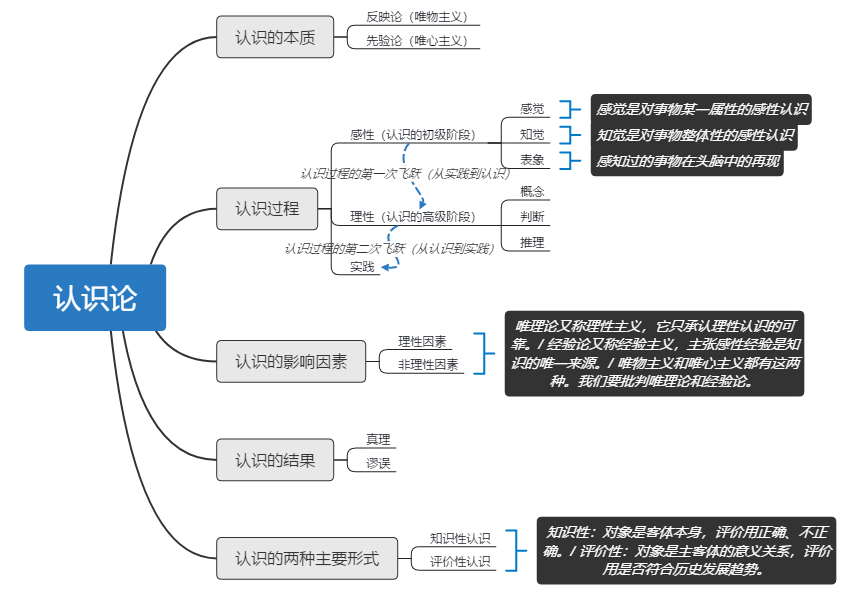
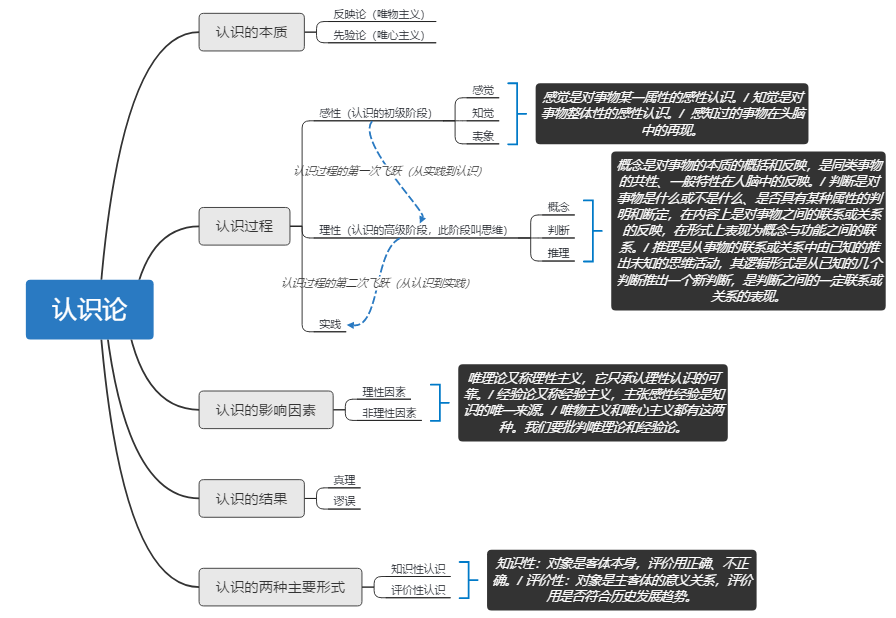
v20181216

Changed region(s): [[0.0304, 0.0, 1.0, 0.9966], [0.3345, 0.5134, 0.3953, 0.5436]]

diff --git a/hexo_blog_backup/source/_posts/哲学与科学相关笔记.md b/hexo_blog_backup/source/_posts/哲学与科学相关笔记.md
@@ -3,7 +3,7 @@ title: 哲学与科学相关笔记
 date: 2018-12-08 15:07:05
 tags: 学习笔记
 ---
-> 此笔记内容是根据多本哲学相关的书、公开课整理出来的。
+> 此笔记内容是根据读过的多本哲学相关的书、公开课整理出来的。
 
 # 一 科学
 ## 1 科学的概念（来自 Wikipedia）
@@ -38,19 +38,26 @@ tags: 学习笔记
 - 哲学落实在人的意识里，落实在判断、选择里。
 
 2. 内容：
-- 存在：研究存在学问在哲学上称为“形而上学 metaphysics”，创建者是亚里士多德。“形而上学”今天的两层含义：以用超验的思辨方式研究非客观或者无形世界的哲学体系（简而言之，就是事物背后的本质）；与辩证法对立，马克思主义哲学中指片面、孤立、静止的观点看待事物。
+- 存在：
+研究存在学问在哲学上称为“形而上学 metaphysics”，创建者是亚里士多德。“形而上学”今天的两层含义：以用超验的思辨方式研究非客观或者无形世界的哲学体系（简而言之，就是事物背后的本质）；与辩证法对立，马克思主义哲学中指片面、孤立、静止的观点看待事物。
 
-- 知道：求知的基本动机是探求规律，预测未来，更好的生存。我们的生活由常识和知识所搭建。现代哲学由我们如何存在转为我们如何认识、知道。
+- 知道：
+求知的基本动机是探求规律，预测未来，更好的生存。我们的生活由常识和知识所搭建。现代哲学由我们如何存在转为我们如何认识、知道。
 
-- 意愿：由“知道”到行动的统一。注：意愿有理性和非理性，意志是非理性的。意愿是完全合乎主体属性的那个东西，由此引出责任，道德是对自我内心的认定是内部活动。古典德性论是绝对的道德，超越环境的；今天的道德是相对的道德，根据环境做出调整。道德的基础是自由，可以选择成为他自身。
+- 意愿：
+由“知道”到行动的统一。注：意愿有理性和非理性，意志是非理性的。意愿是完全合乎主体属性的那个东西，由此引出责任，道德是对自我内心的认定是内部活动。古典德性论是绝对的道德，超越环境的；今天的道德是相对的道德，根据环境做出调整。道德的基础是自由，可以选择成为他自身。
 
-- 共同体：共同体是在个体上的提升。其三个特点是共同的利益、一定的规范性、共同的目标。个人对共同体的要求是稳定有效制度的存在，个体的完善也是共同体的完善。个人主义两个重要方面，自我完善、角色意识。
+- 共同体：
+共同体是在个体上的提升。其三个特点是共同的利益、一定的规范性、共同的目标。个人对共同体的要求是稳定有效制度的存在，个体的完善也是共同体的完善。个人主义两个重要方面，自我完善、角色意识。
 
-- 论辩：辩论是一种技术、一种文化（非权力的压服下，说服他人接受自己的观点）。辩论的发展：修辞学 -> 助产术（辩证法）-> 逻辑学（形式逻辑，亚里士多德首创）-> 数理逻辑（分析哲学）-> 数学（把形式逻辑更加形式化）。
+- 论辩：
+辩论是一种技术、一种文化（非权力的压服下，说服他人接受自己的观点）。辩论的发展：修辞学 -> 助产术（辩证法）-> 逻辑学（形式逻辑，亚里士多德首创）-> 数理逻辑（分析哲学）-> 数学（把形式逻辑更加形式化）。
 
-- 审美：维特根斯坦认为，美是主观感受，并非对事物的客观属性的描述。它是一个感叹词，没有实际内容。所以说整个美的本质论就是一个假命题。/ 席勒认为，在审美活动中，当我们获得快乐时，可以保持自由，不用牺牲自己的自由，是不受限制的自由。过剩的精力施展的愉悦。
+- 审美：
+维特根斯坦认为，美是主观感受，并非对事物的客观属性的描述。它是一个感叹词，没有实际内容。所以说整个美的本质论就是一个假命题。/ 席勒认为，在审美活动中，当我们获得快乐时，可以保持自由，不用牺牲自己的自由，是不受限制的自由。过剩的精力施展的愉悦。
 
-- 哲学与未来：哲学更深入的批评技术，摆脱技术对人的控制（人的异化）。没有哲学、人文教育，我们会生活的非常机械，失去自己，失去丰富性。技术和消费侵蚀我们的未来。/古典向现代思想转化的一个状态，由一个灵魂的人，内在的人转化为一个心理的人，而心理只是一种神经活动，一种身体状态。
+- 哲学与未来：
+哲学更深入的批评技术，摆脱技术对人的控制（人的异化）。没有哲学、人文教育，我们会生活的非常机械，失去自己，失去丰富性。技术和消费侵蚀我们的未来。/古典向现代思想转化的一个状态，由一个灵魂的人，内在的人转化为一个心理的人，而心理只是一种神经活动，一种身体状态。
 
 ## 3 西方哲学发展概况
 - 古希腊罗马哲学（BC 6 世纪 - AD 4 世纪）
@@ -64,17 +71,23 @@ tags: 学习笔记
 
 
 ## 5 一些哲学常识
-- 根据物质和精神何者为第一性，哲学主要分为两个阵营：唯物主义，唯心主义（客观唯心主义、主观唯心主义）。
+- 根据物质和精神何者为第一性，哲学主要分为两个阵营：
+唯物主义，唯心主义（客观唯心主义、主观唯心主义）。
 
-- 唯物主义发展：古代朴素唯物主义、近代机械唯物主义、现代辨证唯物主义。
+- 唯物主义发展：
+古代朴素唯物主义、近代机械唯物主义、现代辨证唯物主义。
 
-- 认识的本质（反映论与先验论）：反映论主张从物到感觉和思想的认识路线。凡坚持物质第一性，意识第二性的唯物主义哲学家，都必然是反映论者。/ 先验论主张从思想和感觉到物的认识路线。认为人的知识是先于感觉经验、先于社会实践的东西，它是先天就有的。先验论是唯心主义认识论的一种表现形式。
+- 认识的本质（反映论与先验论）：
+反映论主张从物到感觉和思想的认识路线。凡坚持物质第一性，意识第二性的唯物主义哲学家，都必然是反映论者。/ 先验论主张从思想和感觉到物的认识路线。认为人的知识是先于感觉经验、先于社会实践的东西，它是先天就有的。先验论是唯心主义认识论的一种表现形式。
 
-- 认识的影响因素（唯理论与经验论）：唯物主义和唯心主义都有这两种。/ 唯理论又称理性主义，它只承认理性认识的可靠性，贬低感性认识的重要意义，否认理性认识依赖于感性经验。/ 经验论又称经验主义，主张感性经验是知识的唯一来源。/ 我们要批判唯理论和经验论。
+- 认识的影响因素（唯理论与经验论）：
+唯物主义和唯心主义都有这两种。/ 唯理论又称理性主义，它只承认理性认识的可靠性，贬低感性认识的重要意义，否认理性认识依赖于感性经验。/ 经验论又称经验主义，主张感性经验是知识的唯一来源。/ 我们要批判唯理论和经验论。
 
-- 认识论中认识过程的两个阶段（现代辩证唯物主义）：第一个阶段，从感性认识到理性认识；第二个阶段，从理性认识到实践。
+- 认识论中认识过程的两个阶段（现代辩证唯物主义）：
+第一个阶段，从感性认识到理性认识；第二个阶段，从理性认识到实践。
 
-- 认识论中认识过程的感性与理性：感性是认识的初级阶段，指通过我们被对象所刺激的方式来获得表象的这种能力。感性认识从潜到深三种形式为感觉（感觉是对事物某一属性的感性认识）、知觉（知觉是对事物整体性的感性认识）、表象（感知过的事物在头脑中的再现）。/ 理性是认识的高级阶段，它是认识的深化，是抽象思维，是对事物本质的、整体的和内部联系的概括和反映。认识从潜到深三种形式为概念、判断、推理。
+- 认识论中认识过程的感性与理性：
+感性是认识的初级阶段，指通过我们被对象所刺激的方式来获得表象的这种能力。感性认识从潜到深三种形式为感觉（感觉是对事物某一属性的感性认识）、知觉（知觉是对事物整体性的感性认识）、表象（感知过的事物在头脑中的再现）。/ 理性是认识的高级阶段，它是认识的深化，是抽象思维，是对事物本质的、整体的和内部联系的概括和反映。认识从潜到深三种形式为概念、判断、推理。
 
 - 认识论小结：
 ![认识过程小结](图2-1.PNG)

diff --git a/hexo_blog_backup/source/_posts/高中数学知识结构思维导图（转载）.md b/hexo_blog_backup/source/_posts/高中数学知识结构思维导图（转载）.md
@@ -1,0 +1,26 @@
+---
+title: 高中数学知识结构思维导图（转载）
+date: 2018-12-16 21:46:30
+tags: 学习笔记
+---
+# 一 高中数学知识结构思维导图
+## 1 集合、映射、函数、导数及微积分
+![集合、映射、函数、导数及微积分](图1.PNG)
+
+## 2 三角函数与平面向量
+![三角函数与平面向量](图2.PNG)
+
+## 3 数列与不等式
+![数列与不等式](图3.PNG)
+
+## 4 解析几何
+![解析几何](图4.PNG)
+
+## 5 立体几何
+![立体几何](图5.PNG)
+
+## 6 统计与概率
+![统计与概率](图6.PNG)
+
+## 7 其他部分内容
+![其他部分内容](图7.PNG)

diff --git a/hexo_blog_backup/source/_posts/考研数学（框架概要）核心知识点笔记.md b/hexo_blog_backup/source/_posts/考研数学（框架概要）核心知识点笔记.md
@@ -1,0 +1,12 @@
+---
+title: 考研数学（框架概要）核心知识点笔记
+date: 2018-12-16 18:55:23
+tags: 学习笔记
+---
+# 一 考研数学考点
+![考研数学（框架概要）](图1.PNG)
+
+# 二 考研数学二知识框架
+## 1 高等数学
+
+## 2 线性代数

diff --git a/hexo_blog_backup/source/_posts/自由软件与开源软件.md b/hexo_blog_backup/source/_posts/自由软件与开源软件.md
@@ -21,9 +21,3 @@ tags: Notes
 
 # 四 图示说明
 ![图1 图示说明](图1.PNG)
-
-# 五 开源软件许可协议选择小结
-![图2 开源软件许可协议选择小结](图2.png)
-via 阮一峰博客
-
-![图3 开源软件许可协议选择小结](图3.png)

diff --git a/hexo_blog_backup/source/_posts/考研政治核心知识点笔记.md b/hexo_blog_backup/source/_posts/考研政治核心知识点笔记.md
@@ -1,0 +1,5 @@
+---
+title: 考研政治核心知识点笔记
+date: 2018-08-16 18:53:15
+tags: 学习笔记
+---
